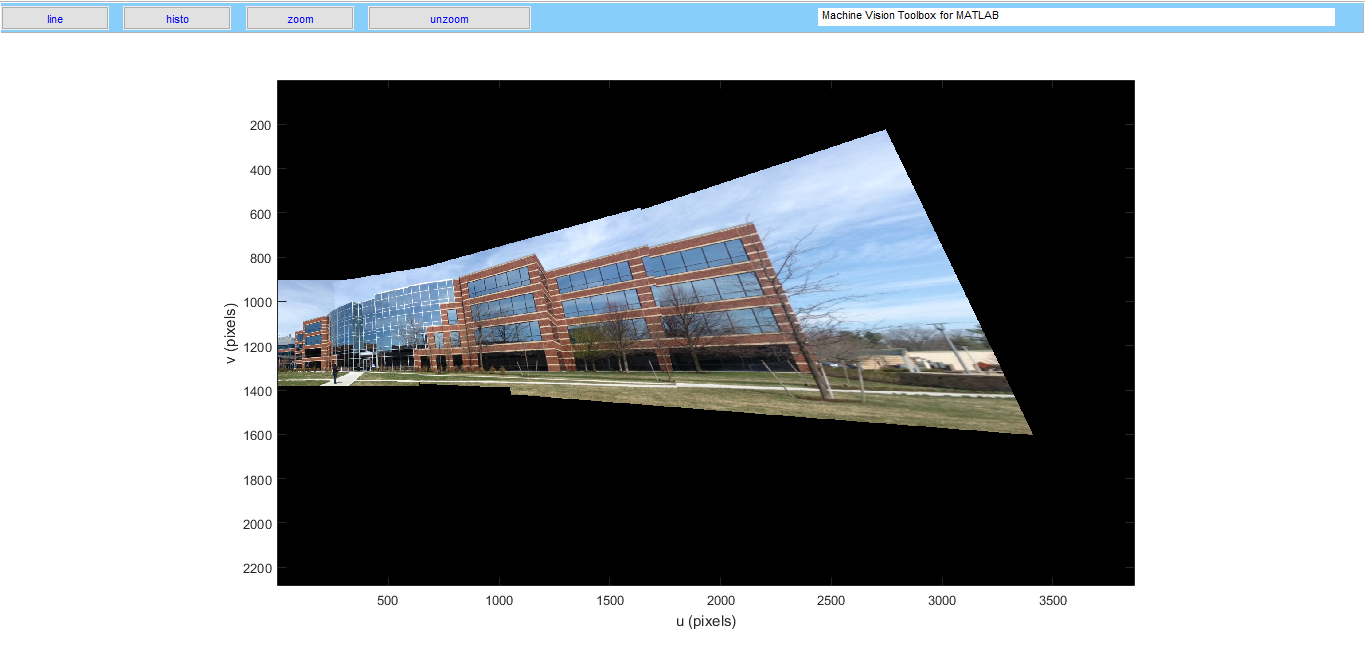
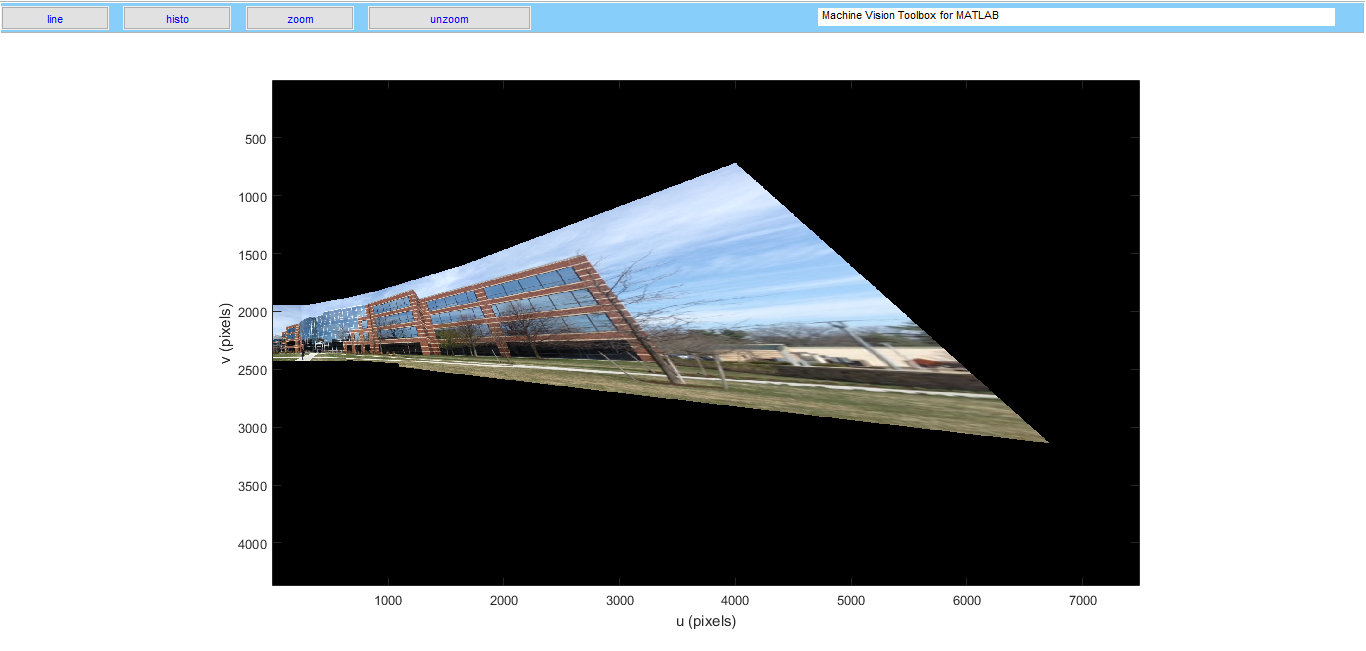
Add files via upload
Complemento da documentação

diff --git a/A1/FunçãoPanoramic/html/Panoramic.html b/A1/FunçãoPanoramic/html/Panoramic.html
@@ -67,7 +67,7 @@ table td { padding:7px 5px; text-align:left; vertical-align:top; border:1px soli
 
 
   </style></head><body><div class="content"><h2>Contents</h2><div><ul><li><a href="#2">PANORAMIC</a></li></ul></div><pre class="codeinput"><span class="keyword">function</span> Im_panoramic = Panoramic( path, varargin )
-</pre><h2>PANORAMIC<a name="2"></a></h2><p>Panoramic esta fun&ccedil;&atilde;o retorna a uma imagem panoramica formada pelas imagens do dataset que est&atilde;o na pasta do <i>path</i>.</p><p><b>As Imagens devem estar em sequncia para que a fun&ccedil;&atilde;o funcione corretamente</b></p><p><tt>Im = Panoramic( path )</tt></p><p>onde <tt>Im  = imagem</tt> <tt>path = string do diret&oacute;rio do data set</tt></p><p>pode se alterar o tamanho processado da imagem usando:</p><p><tt>Im = Panoramic( path, 'size', size_vec )</tt></p><p>Default [480 640]</p><p>pode se mostrar parte do processamento na tela usando:</p><p><tt>Im = Panoramic( path, 'display')</tt></p><p>Default false</p><p>Mudar o numero de matches:</p><p><tt>Im = Panoramic( path, 'matches', num_matches)</tt></p><p>Default 300</p><p>Mudar o par&acirc;metro do filtro threshold usado na para criar a matriz de homografia</p><p><tt>Im = Panoramic( path, 'threshold', num_threshold)</tt></p><p>Default 0.3</p><p>Centralizar o panorama</p><p><tt>Im = Panoramic( path, 'center')</tt></p><p>Default false</p><p>Tamb&eacute;m pode se usar mais de um comando (<b>n&atilde;o importa a ordem</b>);</p><p><tt>Im = Panoramic( path,'display','size', size_vec,'threshold', num_threshold, 'matches', num_maches)</tt></p><p>Valores default</p><pre class="codeinput">num_threshold = 0.3;
+</pre><h2>PANORAMIC<a name="2"></a></h2><p>Panoramic esta fun&ccedil;&atilde;o retorna a uma imagem panoramica formada pelas imagens do dataset que est&atilde;o na pasta do <i>path</i>.</p><p><b>As Imagens devem estar em sequncia para que a fun&ccedil;&atilde;o funcione corretamente</b></p><p><tt>Im = Panoramic( path )</tt></p><p>onde <tt>Im  = imagem</tt> <tt>path = string do diret&oacute;rio do data set</tt></p><p>pode se alterar o tamanho processado da imagem usando:</p><p><tt>Im = Panoramic( path, 'size', size_vec )</tt></p><p>Default [480 640]</p><p>pode se mostrar parte do processamento na tela usando:</p><p><tt>Im = Panoramic( path, 'display')</tt></p><p>Default false</p><p>Mudar o numero de matches:</p><p><tt>Im = Panoramic( path, 'matches', num_matches)</tt></p><p>Default 300</p><p>Mudar o par&acirc;metro do filtro threshold usado na para criar a matriz de homografia</p><p><tt>Im = Panoramic( path, 'threshold', num_threshold)</tt></p><p>Default 0.3</p><p>Centralizar o panorama</p><p><tt>Im = Panoramic( path, 'center')</tt></p><p>Default false</p><p>Tamb&eacute;m pode se usar mais de um comando (<b>n&atilde;o importa a ordem</b>);</p><p><tt>Im = Panoramic( path,'display','size', size_vec,'threshold', num_threshold, 'matches', num_maches)</tt></p><p>Valores default</p><pre class="codeinput">num_threshold = 0.5;
 num_matches = 300;
 imreadsize = [480 640];
 dispim = false;
@@ -140,9 +140,9 @@ displaying at 33%
 </pre><img vspace="5" hspace="5" src="Panoramic_01.png" alt=""> <p>Leitura da Imagem 1 do Data set</p><pre class="codeinput">I{1} = imresize(iread(buildingScene.ImageLocation{1}, <span class="string">'double'</span>),imreadsize );
 <span class="comment">% Busca das features de superficie da imagem 1</span>
 Sf = isurf(I);
-<span class="comment">% Matriz de homagrafia da imagem 1 &eacute; identidade j&aacute; que ela n&atilde;o sera distorcida</span>
+<span class="comment">% Matriz de homografia da imagem 1 &eacute; identidade j&aacute; que ela n&atilde;o sera distorcida</span>
 H{1} = eye(3);
-<span class="comment">% Matriz de homagrafia acumulada inicial</span>
+<span class="comment">% Matriz de homografia acumulada inicial</span>
 tforms{1} = eye(3);
 <span class="comment">% Imagem 1 distorcida ser&aacute; igual a imagem 1 sem a distor&ccedil;&atilde;o, visto que ela</span>
 <span class="comment">% sera a base para todas as outras</span>
@@ -169,27 +169,27 @@ points{1} = [0 0];
     <span class="comment">% Faz o match entre as features da imagem anterior, e a atual -&gt; I(n)</span>
     m{i} = Sf{i}.match(Sfant, <span class="string">'top'</span>, num_matches);
     <span class="comment">% Calcula a matriz de homografia etre os pontos das duas imagens</span>
-    [H{i} val{i} val2{i}] = ransac(@homography,[m{i}.xy_], num_threshold);
+    [H{i} val{i} val2{i}] = ransac(@homography,[m{i}.xy_], num_threshold, <span class="string">'maxTrials'</span>, 10000);
 <span class="keyword">end</span>
 </pre><pre class="codeoutput">finding features and matches
 1127 corners found (0.4%),  1127 corner features saved
 Warning: ransac reached the maximum number
-of 2000 trials; probability of including an
-outlier is 0.859118
+of 10000 trials; probability of including an
+outlier is 0.014668
 try running ransac again 
 
 1116 corners found (0.4%),  1116 corner features saved
 
 1174 corners found (0.4%),  1174 corner features saved
 Warning: ransac reached the maximum number
-of 2000 trials; probability of including an
-outlier is 0.999407
+of 10000 trials; probability of including an
+outlier is 0.982085
 try running ransac again 
 
 1037 corners found (0.3%),  1037 corner features saved
 Warning: ransac reached the maximum number
-of 2000 trials; probability of including an
-outlier is 0.987572
+of 10000 trials; probability of including an
+outlier is 0.663883
 try running ransac again 
 
 </pre><pre class="codeinput"><span class="keyword">if</span> center
@@ -231,7 +231,7 @@ try running ransac again
 <span class="keyword">for</span> i = 1:buildingScene.Count
     <span class="comment">% Faz a homografia da imagem I(n) -&gt; newim(n)</span>
     [bufim points{i}] = homwarp(tforms{i},I{i},<span class="string">'full'</span>);
-    <span class="comment">% Tira NaN das imagens distrocidas</span>
+    <span class="comment">% Tira o NaN das imagens distorcidas</span>
     bufim(isnan(bufim)) = 0;
     newim{i} = bufim;
 <span class="keyword">end</span>
@@ -241,60 +241,74 @@ try running ransac again
     <span class="comment">% Display das imagens finais</span>
     figure, idisp(newim);
 <span class="keyword">end</span>
-</pre><img vspace="5" hspace="5" src="Panoramic_02.png" alt=""> <p>Setando o Tamanho da imagem final</p><pre class="codeinput"><span class="comment">%</span>
+</pre><img vspace="5" hspace="5" src="Panoramic_02.png" alt=""> <p>Setando o Tamanho da imagem final</p><pre class="codeinput"><span class="comment">% Calcula o tamanho da imagem inserida no alogoritmo</span>
 [u1,v1,~] = size(I{end});
-<span class="comment">%</span>
+<span class="comment">% Retorna o tamanho de todas as novas imagens, ap&oacute;s realizada a homografia</span>
 [y,x,~] = cellfun(@size, newim);
-<span class="comment">%</span>
+<span class="comment">% Retorna os pontos calculados na fun&ccedil;&atilde;o homwarp, em forma de vetores</span>
 temp = cell2mat(points);
 
 <span class="comment">% Definir o ponto inicial do panorama</span>
 <span class="keyword">if</span> center
 
-    <span class="comment">%</span>
-    off = [ (sum(x - temp(1:2:end))/2) - v1/2, max(y) - u1];
-    <span class="comment">%</span>
-    Panoramic = zeros( max(y) + max(y) - u1 , sum(x - temp(1:2:end)));
+    <span class="comment">% Caso a imagem do centro seja a refer&ecirc;ncia para as homografias, sua</span>
+    <span class="comment">% posi&ccedil;&atilde;o em X &eacute; ser&aacute; a soma das larguras das imagens j&aacute; rotacionadas</span>
+    <span class="comment">% subtra&iacute;do dos pontos de intersec&ccedil;&atilde;o entre as imagens dividos por 2,</span>
+    <span class="comment">% j&aacute; que se deseja que a imagem de centro fique no centro. J&aacute; Y ser&aacute; o</span>
+    <span class="comment">% tamanho em Y da maior imagem ap&oacute;s a homografia subtraido</span>
+    <span class="comment">% do tamanho da imagem inserida;</span>
+    off = [ (sum(x - temp(1:2:end))/2) - v1/2, (max(y) - u1)];
+
+    <span class="comment">% O tamanho do panorama em X ser&aacute; igual ao offset para quando a imagem</span>
+    <span class="comment">% do centro for a refer&ecirc;ncia por&eacute;m n&atilde;o divido por 2, pois s&oacute; queremos a</span>
+    <span class="comment">% largura m&aacute;xima do panorama. Y ser&aacute; a soma do maior Y p&oacute;s</span>
+    <span class="comment">% homografia com o offset em Y;</span>
+    Panoramic = zeros( (2*max(y) - u1), sum(x - temp(1:2:end)));
 <span class="keyword">else</span>
 
-    <span class="comment">%</span>
+    <span class="comment">% Caso a primeira imagem seja a refer&ecirc;ncia para as homografias, sua</span>
+    <span class="comment">% posi&ccedil;&atilde;o em X &eacute; 1, ou seja na lateral esquerda do panorama. J&aacute; Y ser&aacute;</span>
+    <span class="comment">% o mesmo do caso anterior;</span>
     off = [1, (max(y) - u1)];
-    <span class="comment">%</span>
-    Panoramic = zeros( max(y) + (max(y) - u1), sum(x - temp(1:2:end)));
+
+    <span class="comment">% O tamanho do panorama em X ser&aacute; igual ao offset para quando a imagem</span>
+    <span class="comment">% do centro for a refer&ecirc;ncia por&eacute;m n&atilde;o divido por 2, pois s&oacute; queremos a</span>
+    <span class="comment">% largura m&aacute;xima do panorama.  Y ser&aacute; a soma do maior Y p&oacute;s</span>
+    <span class="comment">% homografia com o offset em Y;</span>
+    Panoramic = zeros( (2*max(y) - u1), sum(x - temp(1:2:end)));
 <span class="keyword">end</span>
 </pre><p>Montagem do panorana</p><pre class="codeinput"><span class="keyword">for</span> i = 1:buildingScene.Count
 
-    <span class="comment">%</span>
+    <span class="comment">% Calcula a m&aacute;scara de todas as imagens com a homografia</span>
     mask{i} = homwarp(tforms{i},ones(u1, v1),<span class="string">'full'</span>);
-    <span class="comment">%</span>
+    <span class="comment">% Transforma os NaN em 0;</span>
     mask{i} = mask{i} &gt;= 1;
-    <span class="comment">%</span>
-    wmask{i} = 1 - mask{i};
+
 <span class="keyword">end</span>
 
 <span class="keyword">for</span> i = 2:buildingScene.Count
 
-    <span class="comment">%</span>
+    <span class="comment">% Cola a imagem i no Panorama com o devido offset;</span>
     Panoramic = ipaste(Panoramic, newim{i}, points{i}+off, <span class="string">'add'</span>);
-    <span class="comment">%</span>
+    <span class="comment">% Cola a m&aacute;scara da imagem i-1, pois vai deixar o espa&ccedil;o para colar;</span>
     Panoramic = ipaste(Panoramic, mask{i-1}, points{i-1}+off, <span class="string">'add'</span>);
-    <span class="comment">%</span>
+    <span class="comment">% Esta fun&ccedil;&atilde;o pega os pontos brancos da imagem e transforma em 0 para</span>
+    <span class="comment">% poder usar o add;</span>
     Panoramic = adjust(Panoramic);
-    <span class="comment">%</span>
+    <span class="comment">% Cola a imagem i-1</span>
     Panoramic = ipaste(Panoramic, newim{i-1}, points{i-1}+off, <span class="string">'add'</span>);
 <span class="keyword">end</span>
 
 <span class="keyword">if</span> dispim
 
     figure, idisp(Panoramic);
+
 <span class="keyword">end</span>
 
 Im_panoramic = Panoramic;
-</pre><img vspace="5" hspace="5" src="Panoramic_03.png" alt=""> <p>&Eacute; temb&eacute;m possivel fazer o panorama centralizado, por&eacute;m ele n&atilde;o encaixa as imagens t&atilde;o bem quanto o n&atilde;o centralizado</p><p><img vspace="5" hspace="5" src="Panoramic_center.PNG" alt=""> </p><pre class="codeinput"><span class="keyword">end</span>
+</pre><img vspace="5" hspace="5" src="Panoramic_03.png" alt=""> <p>&Eacute; tamb&eacute;m possivel fazer o panorama centralizado, por&eacute;m ele n&atilde;o encaixa as imagens t&atilde;o bem quanto o n&atilde;o centralizado</p><p><img vspace="5" hspace="5" src="Panoramic_center.PNG" alt=""> </p><pre class="codeinput"><span class="keyword">end</span>
 </pre><p class="footer"><br><a href="http://www.mathworks.com/products/matlab/">Published with MATLAB&reg; R2016a</a><br></p></div><!--
 ##### SOURCE BEGIN #####
-
-
 function Im_panoramic = Panoramic( path, varargin )
 %% PANORAMIC
 % Panoramic esta função retorna a uma imagem panoramica formada pelas
@@ -346,7 +360,7 @@ function Im_panoramic = Panoramic( path, varargin )
 
 %%
 % Valores default
-num_threshold = 0.3;
+num_threshold = 0.5;
 num_matches = 300;
 imreadsize = [480 640];
 dispim = false;
@@ -429,9 +443,9 @@ end
 I{1} = imresize(iread(buildingScene.ImageLocation{1}, 'double'),imreadsize );
 % Busca das features de superficie da imagem 1
 Sf = isurf(I);
-% Matriz de homagrafia da imagem 1 é identidade já que ela não sera distorcida
+% Matriz de homografia da imagem 1 é identidade já que ela não sera distorcida
 H{1} = eye(3);
-% Matriz de homagrafia acumulada inicial
+% Matriz de homografia acumulada inicial
 tforms{1} = eye(3);
 % Imagem 1 distorcida será igual a imagem 1 sem a distorção, visto que ela
 % sera a base para todas as outras
@@ -458,7 +472,7 @@ for i = 2:buildingScene.Count
     % Faz o match entre as features da imagem anterior, e a atual -> I(n)
     m{i} = Sf{i}.match(Sfant, 'top', num_matches);
     % Calcula a matriz de homografia etre os pontos das duas imagens
-    [H{i} val{i} val2{i}] = ransac(@homography,[m{i}.xy_], num_threshold);
+    [H{i} val{i} val2{i}] = ransac(@homography,[m{i}.xy_], num_threshold, 'maxTrials', 10000);
 end
 
 %%
@@ -504,7 +518,7 @@ end
 for i = 1:buildingScene.Count
     % Faz a homografia da imagem I(n) -> newim(n)
     [bufim points{i}] = homwarp(tforms{i},I{i},'full');
-    % Tira NaN das imagens distrocidas
+    % Tira o NaN das imagens distorcidas
     bufim(isnan(bufim)) = 0;
     newim{i} = bufim;
 end
@@ -517,70 +531,83 @@ end
 %%
 % Setando o Tamanho da imagem final
 
-%
+% Calcula o tamanho da imagem inserida no alogoritmo
 [u1,v1,~] = size(I{end});
-%
+% Retorna o tamanho de todas as novas imagens, após realizada a homografia 
 [y,x,~] = cellfun(@size, newim);
-%
+% Retorna os pontos calculados na função homwarp, em forma de vetores
 temp = cell2mat(points);
 
 % Definir o ponto inicial do panorama
 if center
     
-    %
-    off = [ (sum(x - temp(1:2:end))/2) - v1/2, max(y) - u1];    
-    %
-    Panoramic = zeros( max(y) + max(y) - u1 , sum(x - temp(1:2:end)));
+    % Caso a imagem do centro seja a referência para as homografias, sua
+    % posição em X é será a soma das larguras das imagens já rotacionadas
+    % subtraído dos pontos de intersecção entre as imagens dividos por 2,
+    % já que se deseja que a imagem de centro fique no centro. Já Y será o
+    % tamanho em Y da maior imagem após a homografia subtraido
+    % do tamanho da imagem inserida;
+    off = [ (sum(x - temp(1:2:end))/2) - v1/2, (max(y) - u1)];
+    
+    % O tamanho do panorama em X será igual ao offset para quando a imagem
+    % do centro for a referência porém não divido por 2, pois só queremos a
+    % largura máxima do panorama. Y será a soma do maior Y pós
+    % homografia com o offset em Y;
+    Panoramic = zeros( (2*max(y) - u1), sum(x - temp(1:2:end)));
 else
     
-    %
+    % Caso a primeira imagem seja a referência para as homografias, sua
+    % posição em X é 1, ou seja na lateral esquerda do panorama. Já Y será
+    % o mesmo do caso anterior;
     off = [1, (max(y) - u1)];
-    %
-    Panoramic = zeros( max(y) + (max(y) - u1), sum(x - temp(1:2:end)));
+    
+    % O tamanho do panorama em X será igual ao offset para quando a imagem
+    % do centro for a referência porém não divido por 2, pois só queremos a
+    % largura máxima do panorama.  Y será a soma do maior Y pós
+    % homografia com o offset em Y;
+    Panoramic = zeros( (2*max(y) - u1), sum(x - temp(1:2:end)));
 end
 %%
 % Montagem do panorana
 
 for i = 1:buildingScene.Count
     
-    %
+    % Calcula a máscara de todas as imagens com a homografia
     mask{i} = homwarp(tforms{i},ones(u1, v1),'full');
-    %
+    % Transforma os NaN em 0;
     mask{i} = mask{i} >= 1;
-    %
-    wmask{i} = 1 - mask{i};
+    
 end
 
 for i = 2:buildingScene.Count
     
-    %
+    % Cola a imagem i no Panorama com o devido offset;
     Panoramic = ipaste(Panoramic, newim{i}, points{i}+off, 'add');
-    %
+    % Cola a máscara da imagem i-1, pois vai deixar o espaço para colar;
     Panoramic = ipaste(Panoramic, mask{i-1}, points{i-1}+off, 'add');
-    %
+    % Esta função pega os pontos brancos da imagem e transforma em 0 para
+    % poder usar o add;
     Panoramic = adjust(Panoramic);
-    %
+    % Cola a imagem i-1
     Panoramic = ipaste(Panoramic, newim{i-1}, points{i-1}+off, 'add');
 end
 
 if dispim
     
     figure, idisp(Panoramic);
+    
 end
 
 Im_panoramic = Panoramic;
 
 %%
-% É tembém possivel fazer o panorama centralizado, porém ele não encaixa as
+% É também possivel fazer o panorama centralizado, porém ele não encaixa as
 % imagens tão bem quanto o não centralizado 
 %
 % <<Panoramic_center.PNG>>
 % 
 %
 
-
 end
-
-
 ##### SOURCE END #####
 --></body></html>
